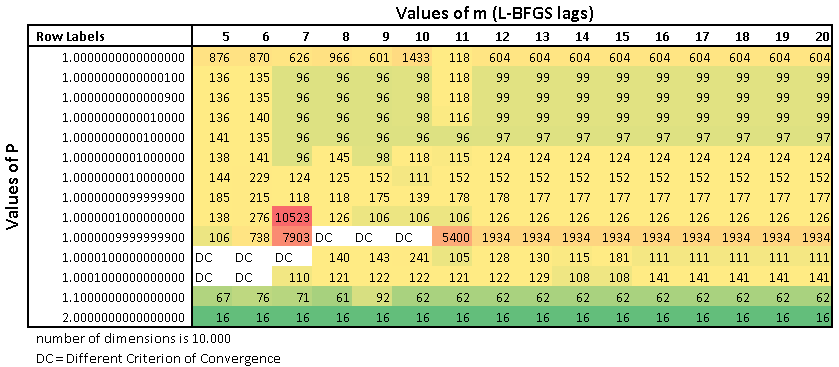
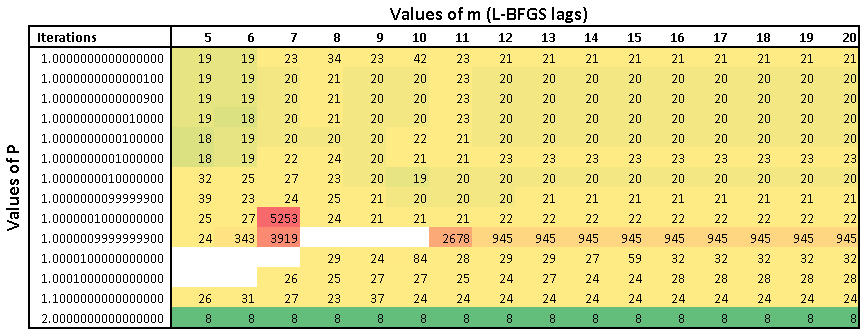
going to change the text style of the algorithms next

diff --git a/Chapters/Chapter1.tex b/Chapters/Chapter1.tex
@@ -260,7 +260,7 @@ Where $s$ is the variable that represents the dual problem.
 
 In order to solve this system of equations a variant of Newton's method is used. The method provides a search direction and as usual for this type of methods, it  requires a corresponding step length. Since this is an interior point method, it approaches the solution following a path inside the convex interior of the feasible set.  In the best of cases, it would be nice to approach the solution through a \emph{central path} defined as third equation in \ref{kkt} is allowed to take more relaxed values $z_is_i = \tau$, where $\tau \geq 0$. If the solution is approached through this \emph{central path}. The convergence will require fewer iterations \footnote{The reason why the central path is so convenient is more thoroughly explained in Nocedal's text chapter $14$\citep{nocedal}}.
 
-The problem with a pure Newton's method is that it's solution is not close to this \emph{central path}. The step length is usually very small because of the nature of the third and fourth equations. For this reason, if the step length is too large, the condition of $z > 0$ or $s > 0$ will be violated and unfortunately, the pure method as it is does not allow reasonable step sizes in practice. The method approaches the solution very close to the boundaries of the feasible set and far away from the \emph{central path} where the step lengths could be larger and the convergence therefore would be faster. It is for this reason that a \emph{centering} of the path is performed. This first step is known as the ``predictor'' step.
+The problem with a pure Newton's method is that it's solution is not close to this \emph{central path}. The step length is usually very small because of the nature of the third and fourth equations. For this reason, if the step length is too large, either the condition of $z > 0$ or $s > 0$ will be violated. Unfortunately the pure method this way, does not allow reasonable step sizes in practice. The method approaches the solution very close to the boundaries of the feasible set and far away from the \emph{central path} where the step lengths could be larger and the convergence therefore would be faster. It is for this reason that a \emph{centering} of the path is performed. This first step is known as the ``predictor'' step.
 
 Besides the centering; Mehrotra proposed a ``correction'' stage which pushes the solution even closer to the \emph{central path} by taking into account its curvature. This second stage is also used to calibrate some of the parameters used during the centering in the ``predictor'' stage\footnote{These are some parameters that calibrate the speed at which the tangent path is pushed into the central path. This is also explained in chapter $14$\citep{nocedal}}. The second stage is similar to the first stage in that it requires the solution of a new system of equations.
 
@@ -275,7 +275,7 @@ And this is very important, because both steps require a solution of a system of
 
 \chapter{Solution Tests}
 
-The $L-BFGS-B$ implementation was tested on the high performance cluster machines at NYU. In order to run these tests it was necessary to create a series of PBS files using a PBS generator script \ref{pbsgenerator}. This script generator created PBS files which in turn run bash scripts \ref{pbsfile}. The main reason to run scripts this way is because it achieves parallelism, and because the system sends confirmation e-mails and statistics about the different stages of the processes giving a lot of control to the practitioner. The original $L-BFGS-B$ optimizer displays different messages depending on the initial condition that triggered the exit.  
+The $L-BFGS-B$ implementation was tested on the high performance cluster machines at NYU. In order to run these tests it was necessary to create a series of PBS files\footnote{PBS stands for Portable Batch System. This is a software that performs job scheduling. It is used by High Performance Computing at NYU (and many other High Performance Computing Centers) to allocate computational tasks. In order to run jobs at the high performance clusters, a series of PBS batch files need to be created} using a PBS generator script \ref{pbsgenerator}. This script generator created PBS files which in turn run bash shell scripts\footnote{Bash is a command processor. Each Bash script that was created includes a series of computer commands. In this case, the program execution of the original $L-BFGS-B$ software and $L-BFGS-B-NS$} \ref{pbsfile}. The main reason to run scripts this way is because it achieves parallelism, and because the system sends confirmation e-mails and statistics about the different stages of the processes giving a lot of control to the practitioner. The original $L-BFGS-B$ optimizer displays different messages depending on the initial condition that triggered the exit.  
 
 \section{Exit Messages}
 
@@ -283,23 +283,23 @@ The following is a list of some of the other most common exit messages in the or
 
 \begin{itemize}
 
-\item 'ABNORMAL\_TERMINATION\_IN\_LNSRCH' This message means that there was a problem and a premature exit was required. It is typically found in Non-Smooth functions where the cubic interpolation is impossible. But the message is also symptomatic of other problems.
+\item ``ABNORMAL\_TERMINATION\_IN\_LNSRCH'' This message means that there was a problem and the program's exit was premature. It is typically found in Non-Smooth functions where the cubic interpolation is impossible. But the message is also symptomatic of other problems.
 
-\item 'CONVERGENCE: NORM\_OF\_PROJECTED\_GRADIENT\_LT\_PGTOL': Means that convergence was achieved because the norm of the projected gradient is small enough. Notice that this convergence message does not apply to $L-BFGS-B-NS$ because of particular requirements for Non-Smooth functions involving the convex hull instead\ref{terminator}.
-\item 'CONVERGENCE: REL\_REDUCTION\_OF\_F\_LT\_FACTR*EPSMCH': This convergence condition is achieved whenever the relative reduction of the value of function $f$ is smaller than a predefined factor times machine $\epsilon$.
+\item ``CONVERGENCE: NORM\_OF\_PROJECTED\_GRADIENT\_LT\_PGTOL": Means that convergence was achieved because the norm of the projected gradient is small enough. Notice that this convergence message does not apply to $L-BFGS-B-NS$ because of particular requirements for Non-Smooth functions involving the convex hull instead \ref{terminator}.
+\item "CONVERGENCE: REL\_REDUCTION\_OF\_F\_LT\_FACTR*EPSMCH": This convergence condition is achieved whenever the relative reduction of the value of function $f$ is smaller than a predefined factor times machine $\epsilon$. This exit message does not apply to $L-BFGS-B-NS$ either.
 
-\item 'ERROR: N .LE. 0': This is one of many error checks performed at the beginning of the execution.
+\item "ERROR: N .LE. 0": This is one of many error checks performed at the beginning of the execution. This one in particulars tests positivity of the dimensionality of the problem.
 
-\item 'ERROR: NO FEASIBLE SOLUTION': An error condition for those cases when the solution is not feasible. This is because the original $L-BFGS-B$ optimizer allows oppen boxes of type [$l$, $\infty$[, ]$-\infty$, $u$] and ]$-\infty$, $\infty$[
+\item "ERROR: NO FEASIBLE SOLUTION": An error condition for those cases when the solution is not feasible. This is because the original $L-BFGS-B$ optimizer allows oppen boxes of type [$l$, $\infty$[, ]$-\infty$, $u$] and ]$-\infty$, $\infty$[
 
-\item 'WARNING: ROUNDING ERRORS PREVENT PROGRESS': If there is a rounding error issue
+\item "WARNING: ROUNDING ERRORS PREVENT PROGRESS": If there is a rounding error issue
 
 \end{itemize}
 
-on top of these messages, $L-BFGS-B-NS$ introduced a new message for a succesful exit from its termination condition\ref{terminator}
+on top of these messages, $L-BFGS-B-NS$ introduced a new message for a succesful exit from its termination condition.
 
 \begin{itemize}
-\item 'CONVERGENCE: ZERO\_GRAD\_IN\_CONV\_HULL' What this means is that all termination conditions\ref{terminator} were satisfied\footnote{This does not mean that the resulting vector is exactly equal to zero $0$, but it is small enough to finish the execution of the algorithm}.
+\item "CONVERGENCE: ZERO\_GRAD\_IN\_CONV\_HULL" What this means is that all termination conditions established on section \ref{terminator} were satisfied\footnote{This does not mean that the resulting vector is exactly equal to zero $0$, but it is small enough to finish the execution of the algorithm}.
 \end{itemize}
 
 \section{Modified Rosenbrock Function} \label{ros}
@@ -310,7 +310,7 @@ With those tools in hand, it is possible to run a few tests of the algorithm. Se
     f(x) = (x_1 - 1)^2 + \sum_{i = 2}^n |x_i - x_{i - 1}^2|^p
 \end{equation}
 
-Here, the properties of the function depend on the value of $p$\footnote{The original Rosenbrock function would have a value of $p = 2$}. This function can be proven to be locally lipschitz continuous whenever $p \geq 1$. In particular it is Locally Lipschitz continuous if restricted to a finite domain of the type $l$, $u$, similar to the one defined on\ref{mainproblem}.
+Here, the properties of the function depend on the value of the $p$ parameter\footnote{The original Rosenbrock function would have a value of $p = 2$ and the second term is multiplied by $100$}. This function can be proven to be locally lipschitz continuous whenever $p \geq 1$. In particular it is Locally Lipschitz continuous if restricted to a finite domain of the type $l$, $u$, similar to the one defined on equation \ref{mainproblem}.
 
 The region to be tested is defined by the ``box'' with boundaries
 
@@ -324,15 +324,15 @@ The region to be tested is defined by the ``box'' with boundaries
   \end{aligned}
 \end{equation}
 
-And the initial point was chosen to be the midpoint of the box, plus a small perturbation chosen so that the search direction does not reach the boundary of several dimensions in one stroke.
+And the initial point was chosen to be the midpoint of the box, plus a different small perturbation for each dimension, chosen so that the line search does not reach the boundary of several dimensions in one stroke.
 
 \begin{equation}
   \begin{aligned}
-    x_i = \frac{u_i - l_i}{2} - (1 - 2^{1 - i})
+    x_i = \frac{u_i + l_i}{2} - (1 - 2^{1 - i})
   \end{aligned}
 \end{equation}
 
-The problem is smooth for values of $p$ close to $2$, but as the values of $p$ approach $1$, the original $L-BFGS-B$ optimizer should start to have problems. In order to check for that, we plug the Modified Rosenbrock function into the original $L-BFGS-B$ optimizer with $p$ parameters varying between $2$ and $1$. 
+The problem is smooth for values of $p$ close to $2$, but as the values of $p$ approach $1$, the original $L-BFGS-B$ optimizer should start to have problems. In order to check for that, we plug the Modified Rosenbrock function into the original $L-BFGS-B$ optimizer with $p$ parameter varying between $2$ and $1$. 
 
 
 \begin{figure}
@@ -344,13 +344,15 @@ The problem is smooth for values of $p$ close to $2$, but as the values of $p$ a
 \end{figure}
 
 
-For a value of $p = 2$, the original $L-BFGS-B$ optimizer does not have too many problems and it yields good results as seen on the resulting table\ref{pequal2}.
+For a value of $p = 2$, the original $L-BFGS-B$ optimizer does not have too many problems and it yields good results as seen on the resulting table \ref{pequal2}.
 
-This exercise tested three different values of $m$, where $m$ stands for the steps in memory of $L-BFGS$. The steps that were tested are $5$, $10$ and $20$, because they cover more or less the set of recommended values. The number of dimensions in this exercise in particular ranges from $2$ to $1000$ and covering many values in between. The column $nfg$ stands for the number of iterations taken in order to finish the algorithm and $f$ stands for the optimal value that was achieved during the optimization. The two last columns stand for the norm of the projected gradient and the final message when the algorithm finished.
+\subsection{Performance of $L-BFGS-B$}
+
+This exercise tested three different values of $m$, where $m$ stands for the steps in memory of $L-BFGS$. The steps that were tested are $5$, $10$ and $20$, these values of $m$ cover more or less the set of recommended values. The number of dimensions in this exercise in particular ranges from $2$ to $1000$ and covering many values in between. The column $nfg$ stands for the number of iterations taken in order to finish the algorithm and $f$ stands for the optimal value that was achieved during the optimization. The two last columns stand for the norm of the projected gradient and the final message when the algorithm finished.
 
 In all cases the projected gradient has a very small norm. When this norm is tiniest the convergence is achieved because the norm of the projected gradient is smaller than the threshold. In other cases, the program exits succesfully after a relative reduction in the size of the function. In other cases, an abnormal termination message is sent to the output.
 
-Notice that in \ref{pequal2} the program sometimes sends a warning message even though the function has converged to a value that more or less is very close to the optimal expected value.  This is because the original Rosenbrock function is designed to be very difficult to solve.  Its minimum is located in a banana shaped valley. This valley is very flat and is supposed to cause trouble to even the best optimizers as seen in figure \ref{dualgraph}
+Notice that in \ref{pequal2} the program sometimes sends an ``ABNORMAL\_TERMINATION\_IN\_LNSRCH'' warning message even though the function has converged to a value that is very close to the optimal expected value.  This is because the original Rosenbrock function is designed to be very difficult to solve.  Its minimum is located in the middle of a banana shaped valley. This valley is very flat and is designed to be a test problem that causes trouble to even the best optimizers as. The shape of the original Rosenbrock function can be seen in figure \ref{dualgraph}. The shape of this region is perhaps easier to see on the contour plot \ref{contourbanana}. The minimum is locate at the point ($1$, $1$) on one of the corners.
 
 \begin{figure}
 \centering
@@ -360,8 +362,6 @@ Notice that in \ref{pequal2} the program sometimes sends a warning message even 
 \label{dualgraph}
 \end{figure}
 
-It is perhaps easier to see it all on the contour plot \ref{contourbanana}
-
 \begin{figure}
 \begin{center}
 \includegraphics[scale=0.5]{Figures/contour.PNG}
@@ -370,7 +370,7 @@ It is perhaps easier to see it all on the contour plot \ref{contourbanana}
 \end{center}
 \end{figure}
 
-The overall conclusion from this exercise is that the original $L-BFGS-B$ optimizer works well, for the smooth Rosenbrock case\footnote{The original algorithm solves a modified version of this function \ref{modifiedrosenbrock}, so it is to be expected that the performance is good}.
+The overall conclusion from this exercise is that the original $L-BFGS-B$ optimizer works well, for the smooth modified Rosenbrock case\footnote{The original algorithm solves a modified version of this function \ref{modifiedrosenbrock} with parameter $p = 2$, so it is to be expected that the performance is good}.
 
 \begin{figure}
 \begin{center}
@@ -380,9 +380,13 @@ The overall conclusion from this exercise is that the original $L-BFGS-B$ optimi
 \end{center}
 \end{figure}
 
-On the other hand, the value of $p = 1$ has an abnormal line search termination in all of the cases presented. The projected gradient values are always far away from zero. The memory length $m$ of $L-BFGS$, does not have an impact in the final value $f$ of the optimization, but this is because all cases crashed before the $5^{th}$ iteration and therefore all different cases of $m$ end up looking exactly the same in this table.
+On the other hand, the value of $p = 1$ has an abnormal line search termination in most of the cases presented. The projected gradient values are always far away from zero see table \ref{pequal1}. 
 
-By the same token several other values of $p$ were also tested, among others $1.5$, $1.1$, $1.01$, $1.001$, ... , $1.000000001$, $1$. As expected, those values where $p$ is closer to $1$ give the most problems to the original algorithm. When $p=1$ the algorithm does not work as seen in \ref{pequal1}\footnote{This is expected because the algorithm is originally designed to handle only smooth functions}.
+In this exercise, the memory length $m$ of $L-BFGS$, does not have an impact on the final value $f$ of the optimization, but this is because all cases crashed before the $5^{th}$ iteration and therefore all different cases of $m$ end up looking exactly the same in this table.
+
+But an analysis of only the values $p = 1$ and $p = 2$ would not be enough. And therefore several other values of $p$ were also tested, among others $1.5$, $1.1$, $1.01$, $1.001$, ... , $1.000000001$, $1$. As expected, those values where $p$ is closer to $1$ are the most difficult to solve for the original algorithm. When $p=1$ the algorithm does not work as seen in \ref{pequal1}\footnote{This is expected because the algorithm is originally designed to handle only smooth functions}. It is important to point out that the two dimensional case is succesful because in this particular case the function is smooth inside its bounding box.
+
+\subsection{Performance of $L-BFGS-B-NS$}
 
 For intermediate values, the new changes seem to provide better values of $f$. Here is a simple comparison of the algorithm running on $m = 5,10$ for selected values of $p$ \ref{pcomp}
 
@@ -394,48 +398,61 @@ For intermediate values, the new changes seem to provide better values of $f$. H
 \end{center}
 \end{figure}
 
-These are typical values of optimizations for intermediate values of $p$. In the bar graph it is possible to see that values generated via $L-BFGS-B-NS$ are a little better for values of $p$ closer to $1$. Finally, there is a table with the number of evaluations performed sliced by $p$ and $m$ \ref{pmtable}. And just as it would be expected, the number of evaluations required is higher for values of $p$ close to $1$.
+These are typical values of optimizations for intermediate values of $p$. In the bar graph it is possible to see that values generated via $L-BFGS-B-NS$ are a little better for values of $p$ closer to $1$. 
+
+The test performed is represented in a table with the number of iterations performed sliced by $p$ and $m$ \ref{pmtableiter}. And just as it would be expected, the number of evaluations required is higher for values of $p$ close to $1$.
 
 \begin{figure}
 \begin{center}
-\includegraphics[scale=0.75]{Figures/Niterations.PNG}
-\caption[Number of function evaluations for different values of $p$ and $m$ in the solution of Modified Rosenbrock]{This is the number of function evaluations for different values of $p$ and $m$. The number of function evaluations is a few times higher than the number of iterations because it iterations requires to evaluate the function a couple of times for the line search. Values of DC converged using other stopping criteria besides the termination condition \ref{terminator}}
+\includegraphics[scale=0.55]{Figures/Niterations.PNG}
+\caption[Number of function iterations for different values of $p$ and $m$ in the solution of Modified Rosenbrock]{This is the number of iterations for different values of $p$ and $m$. Blank values converged using other stopping criteria besides the termination condition on \ref{terminator}}
+\label{pmtableiter}
+\end{center}
+\end{figure}
+
+The same table is reported for the number of function evaluations (as opposed to number of iterations) required to achieve convergence on table \ref{pmtable}
+
+\begin{figure}
+\begin{center}
+\includegraphics[scale=0.55]{Figures/Nevaluations.PNG}
+\caption[Number of function evaluations for different values of $p$ and $m$ in the solution of Modified Rosenbrock]{This is the number of function evaluations for different values of $p$ and $m$. The number of function evaluations is a few times higher than the number of iterations because each iteration requires to evaluate the function a couple of times for the line search. Blank values converged using other stopping criteria besides the termination condition on \ref{terminator}}
 \label{pmtable}
 \end{center}
 \end{figure}
 
-\section{Nesterov's Chebyshev-Rosenbrock Modified function}
+The values on these tables should be compared with the much more difficult problem in the next section.
 
-This function is a Non-Smooth variation of \texttt{NCR-NS1} which was first introduced in the thesis by Kaku\citep{kaku}. The function is defined very similar to \ref{modifiedrosenbrock}.
+\section{Nesterov's Chebyshev-Rosenbrock Modified function}
+The original \texttt{NCR-NS1} function was first introduced in the thesis by Kaku\citep{kaku}. It is a Non-Smooth variation of the \texttt{NCR} function. In this thesis there is yet a newer modification to this function and it is defined very similar to the function \ref{modifiedrosenbrock}. with the inclusion of a $p$ parameter.
 
 \begin{equation} \label{modifiedyurirosen}
     f(x) = \frac{(x_1 - 1)^2}{4} + \sum_{i = 1}^{n-1} |x_{i+1} - 2x_{i}^2 + 1|^p
 \end{equation}
 
-Where the $p$ is also assigned as a control variable for the Lipschitz Continuity of the function. The problem as stated in Kaku's thesis, is that the manifold defined by the term inside the sum, also known as:
+And just like in equation \ref{modifiedrosenbrock} $p$ is also assigned as a control variable for the Lipschitz Continuity of the function. The problem as stated in Kaku's thesis, is that the manifold defined by the term inside the sum,
 
 \begin{equation} \label{kakumanifold}
     M = \{x: x_{i+1} - 2x_i^2 + 1 = 0, i = 1, \hdots, n-1 \}
 \end{equation}
 
-is highly oscillatory in nature, and therefore $BFGS$ methods require many iterations to converge. In particular, the next table tries to slice the number of iterations required to finish the algorithm given different combinations of $p$ and $n$, the number of dimensions\ref{yuripn}.
+is highly oscillatory in nature, and therefore $BFGS$ type of methods require many iterations to converge. In particular, table \ref{yuripn} tries to slice the number of iterations required to finish the algorithm given different combinations of $p$ and $n$, the number of dimensions. See table \ref{yuripn}.
 
 \begin{figure}
 \begin{center}
 \includegraphics[scale=0.6]{Figures/yurirosenpn.PNG}
-\caption[Comparison of selected values of the Modified NCR-NS1 function sliced by p and n]{Comparison of the number of iterations in order to converge for the Modified NCR-NS1 functions sliced by the number of dimensions $n$ and the $p$ parameter that controls the Smoothness of the function}
+\caption[Comparison of selected values of the Modified NCR-NS1 function pivoting by p and n parameters]{Comparison of the number of iterations in order to converge for the Modified NCR-NS1 functions sliced by the number of dimensions $n$ and the $p$ parameter that controls the Smoothness of the function}
 \label{yuripn}
 \end{center}
 \end{figure} 
 
-The results show that the number of iterations increases significatively with smaller values of $p$, and in general with larger values of the dimension $n$. The number of iterations is a lot larger than for the previous case \ref{ros} 
+The results show that the number of iterations increases significatively with smaller values of $p$ and with larger values of the dimension $n$. Also, the number of iterations is a lot larger than for the previous case on section \ref{ros}. 
 
-This table was also sliced with the parameters $n$ and $m$ in figure \ref{yurimn}.
+This table was also pivoted with parameters $n$ and $m$ in table \ref{yurimn}.
 
 \begin{figure}
 \begin{center}
 \includegraphics[scale=0.9]{Figures/yurirosenmn.PNG}
-\caption[Comparison of selected values of the Modified NCR-NS1 function sliced by m and n]{Comparison of the number of iterations in order to converge for the Modified NCR-NS1 functions sliced by the number of dimensions $n$ and the memory lag $m$}
+\caption[Comparison of selected values of the Modified NCR-NS1 function pivoting by m and n parameters]{Comparison of the number of iterations in order to converge for the Modified NCR-NS1 functions sliced by the number of dimensions $n$ and the memory lag $m$}
 \label{yurimn}
 \end{center}
 \end{figure} 
@@ -443,17 +460,17 @@ This table was also sliced with the parameters $n$ and $m$ in figure \ref{yurimn
 \chapter{Conclusions}
 
 %-------------------------------------------------------------------------
-The need to build optimizers that work on a large number of variables quickly led us to the use of large scale quasi-Newton methodologies. These methodologies have been show to work very well for smooth functions and several implementations have been suggested in the literature and some implementations are already available.
+The need to build optimizers that work on a large number of variables quickly. Led us to the use of large scale quasi-Newton methodologies. These methodologies have been shown to work very well for smooth functions and several implementations have been suggested and made available already.
 
-Implementing the changes proposed to the original $L-BFGS-B$ software like changing the Wolfe condition from the strong to the weak version and using a line search algorithm that does not require smoothness of the function at critical points, provides the capability to run optimizations on Non-Smooth functions on simply restricted domains.
+In the case of Non-Smooth functions, a lot of changes were proposed in this thesis. Implementing the changes proposed to the original $L-BFGS-B$ software provides the capability to run optimizations on Non-Smooth functions on simply restricted domains. The most important changes were the Wolfe condition; which was changed from the strong to the weak version and using a line search algorithm that does not require smoothness of the function at critical points.
 
-With the new tool, which is called $L-BFGS-B-NS$, it is possible to run optimizations of problems that involve a few millions of variables for some complicated test functions. The software has been tested with very challenging functions and has performed well.
+With the new tool, which is called $L-BFGS-B-NS$, it is possible to run optimizations of problems in large dimensions for some complicated tests. The software has been tested with very challenging functions and has performed well.
 
 The new methodology offered some challenges to the way in which the algorithm terminates and for this reason it was also necessary to implement termination conditions that take care of the wedges natural to Non-Smooth functions. The new termination conditions work fine for the problems tested.
 
-After running the algorithm it seems like there is not a good rule to choose the number of memory step terms $m$ to keep in memory, but this is something that also happened in the case of smooth functions. Also, the test functions Modified Rosenbrock and Modified NCR-NS1, show that the most complicated and quasi-Non-Smooth a function becomes, the more iterations and function evaluations will be required for the function to converge.
+After running the algorithm it seems like there is not a good rule to choose the number of memory step terms $m$ to keep in memory, but this is something that also happened in the case of smooth functions. Also, the test functions Modified Rosenbrock and Modified NCR-NS1, show that the more ``Non-Smooth'' a function becomes, the more iterations and function evaluations will be required for the function to converge.
 
 Another conclusion, quite obvious, is that larger problems involve a greater number of ressources
 
-Future steps suggest the investigation of limited-memory bundled methods $LMBM$, how it compares with $L-BFGS-B-NS$ and how one could benefit from the other. Also, the study of the impact of the Lipschitz constant on the convergence of the $L-BFGS-B-NS$ algorithm\citep{QJ:QJ935}.
+Future steps suggest the investigation of limited-memory bundled methods $LMBM$, how it compares with $L-BFGS-B-NS$ and how one could benefit from the other. Also, the study of the impact of the Lipschitz constant on the convergence of the $L-BFGS-B-NS$ algorithm\citep{QJ:QJ935}. This line of research opened up as we were already finishing this thesis.
 

diff --git a/Appendices/AppendixA.tex b/Appendices/AppendixA.tex
@@ -18,7 +18,7 @@
   firstnumber = 2607
 }
 \section{Old Parts of the Code (Commented Out)}
-All the code is available on \citep{lbfgsbNS} \label{ignoredcode}. This is also true for the code that is not being used anymore.  Here the old function dcsrch is commented out. lineww is replacing it instead
+All the code is available on \citep{lbfgsbNS} \label{ignoredcode}. The older version of the code was left untouched and simply was commented out. Here the old function dcsrch. lineww is replacing it instead
 \begin{lstlisting}
 
 !     call dcsrch(f,gd,stp,ftol,gtol,xtol,zero,stpmx,csave,isave,dsave)
@@ -31,7 +31,7 @@ All the code is available on \citep{lbfgsbNS} \label{ignoredcode}. This is also 
   firstnumber = 3687
 }
 \section{Stage 2 of the Line Search}
-Stage 2 of the line search\citep{lbfgsbsoftware} \label{stage2}. This stage is not being run in lbfgsbNS. But is kept there for comparisson. For the new line search that replaces it \ref{linesearchww}
+Stage 2 of the line search\citep{lbfgsbsoftware} \label{stage2}. This stage is not being run in lbfgsbNS. It is kept there for comparisson. For the new line search that replaces it. You can look at appendix \ref{linesearchww}
 \begin{lstlisting}
       if (stage .eq. 1 .and. f .le. fx .and. f .gt. ftest) then
 
@@ -90,7 +90,7 @@ This part of the code does not work in the case when the function is Non-Smooth 
 \end{lstlisting}
 
 \section{Line Search Enforcing Weak Wolfe Conditions}\label{linesearchww}
-This is the implementation of the line search that enforces the weak Wolfe conditions. Bisections and expansions (as long as it doesn't mean leaving the bounding box) of the step length. This version tries to be as similar as possible to the interior of the while loop in qpspecial.m at hanso \citep{hanso}
+This is the implementation of the line search that enforces the weak Wolfe conditions. Bisections and expansions (as long as it doesn't mean leaving the bounding box) of the step length. The purpose of this version is to be as similar as possible to the interior of the while loop in qpspecial.m at hanso \citep{hanso}
 \lstset{
   firstnumber = 4425
 }
@@ -136,7 +136,7 @@ This appendix includes some of the files that were used to run examples in paral
 
 \section{Script Generator} \label{pbsgenerator}
 
-This is a sample of the script generator that creates pbs files to be sent to the High Performance Machines. The value ``i'' creates a different set of files, in this case one file for each value of $p$ that we want to test. To see a result of running this script look at \ref{pbsfile}. 
+This is a sample of the script generator that creates pbs files to be sent to the High Performance Machines. The value ``i'' creates a different set of files when it varies between $0$ and $20$, in this case one file for each value of the parameter $p$ from \ref{modifiedrosenbrock} that we want to test. To see one of the files resulting from running this script look at appendix \ref{pbsfile}. 
 \lstset{
   language=sh,
   firstnumber = 1
@@ -178,7 +178,7 @@ for i in {0..20}; do qsub pbs.script.rosenbrock.$\$i$ ; done
 
 
 \section{PBS File Sample} \label{pbsfile}
-This is a sample file general with \ref{pbsgenerator}. It runs a special value $p$.  These are the ones that get started with the the qsub command.
+This is one of the sample files that were generated via the generator on appendix  \ref{pbsgenerator}. It runs a special value $p$.  These are the ones that get started with the the qsub command.
 
 Lines 4 to 5 provide the user with emails and critical information while running the process. Line 13 defines a run for different sizes of $n$. Line $16$ is the actual run that will be sent to an output file. In this case ``outputrosenbrock9.txt''
 \lstset{

diff --git a/main.tex b/main.tex
@@ -54,7 +54,7 @@
 % Definitions
 
 \def \univname {New York University}
-\def \ttitle {An L-BFGS-B  Optimizer for Non-Smooth Functions}
+\def \ttitle {An L-BFGS-B-NS  Optimizer for Non-Smooth Functions}
 \def \authornames {Wilmer Henao}
 \def \supname {Michael L. Overton}
 \def \degreename {Master of Science in Scientific Computing}
@@ -177,7 +177,7 @@ The Thesis Abstract is written here \ldots
 \acknowledgements{\addtocontents{toc}{\vspace{1em}} % Add a gap in the Contents, for aesthetics
 I would like to thank my advisor Michael Overton for all the hours of hard work and for all the great recommendations and changes that led to this thesis.
 
-I also would like to thank Allan Kaku and Anders Skaaja for earlier contributions to other versions of the code.
+I also would like to thank Allan Kaku and Anders Skaaja for earlier contributions to other versions of the code. And Jorge Nocedal, Ciyou Zhu, Richard Byrd and Peihuang Lu, for letting us change their original code.
 
 Finally, I would like to thank High Performance Computing at NYU for the computing tests and their helpful assistance.
 }
